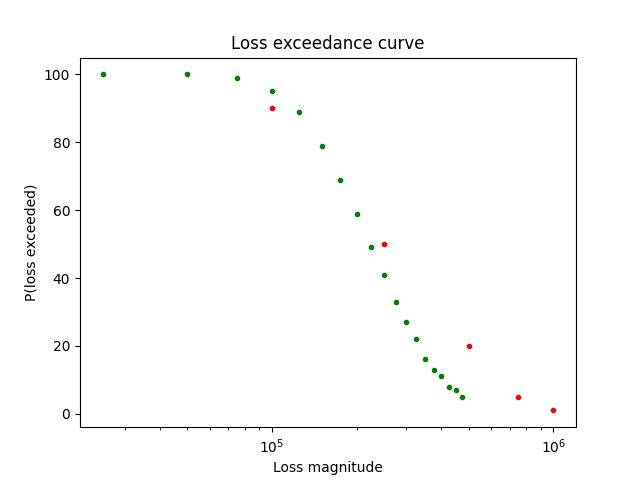
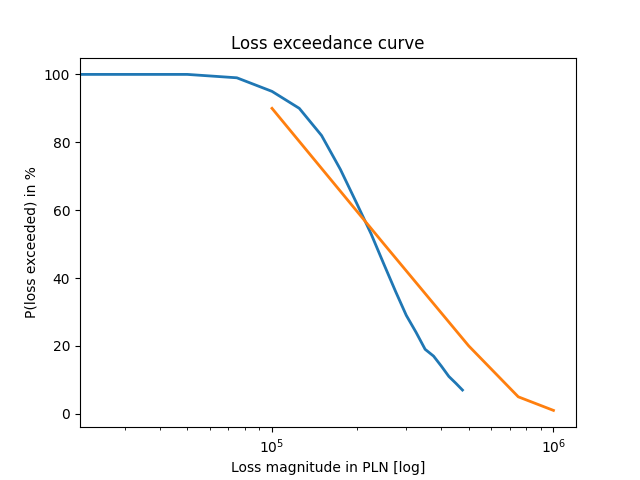
draw lines

diff --git a/distros/cyberrisk_sim.py b/distros/cyberrisk_sim.py
@@ -71,15 +71,18 @@ def loss_exceedance_curve(sim_lst, TE_UB, STEP):
 
 def draw_loss_exceedance(lst, lst_for_risk_tolerance):
     fig, ax = plt.subplots()
-    for x, perc in lst:
-        ax.plot(x, perc, **{'color': 'green', 'marker': '.'})
-    for x, perc in lst_for_risk_tolerance:
-        ax.plot(x, perc, **{'color': 'red', 'marker': '.'})
+    for item in [lst, lst_for_risk_tolerance]:
+        x = []
+        y = []
+        for n, p in item:
+            x.append(n)
+            y.append(p)
+        ax.plot(x, y, linewidth=2)
     ax.set_xscale('log')
-    ax.set_xlabel('Loss magnitude')
-    ax.set_ylabel('P(loss exceeded)')
+    ax.set_xlabel('Loss magnitude in PLN [log]')
+    ax.set_ylabel('P(loss exceeded) in %')
     ax.set_title('Loss exceedance curve')
-    fig.savefig('fig2.png')
+    fig.savefig('fig3.png')
 
 #######################################################################
 # Przykład:
@@ -102,7 +105,7 @@ def draw_loss_exceedance(lst, lst_for_risk_tolerance):
 
 TE = 0.1
 TE_LB = 100000
-TE_UB = 1000000
+TE_UB = 500000
 STEP = 25000
 SEC_CTRL_RED = 0.5
 NO_SIMULATIONS = 10000
